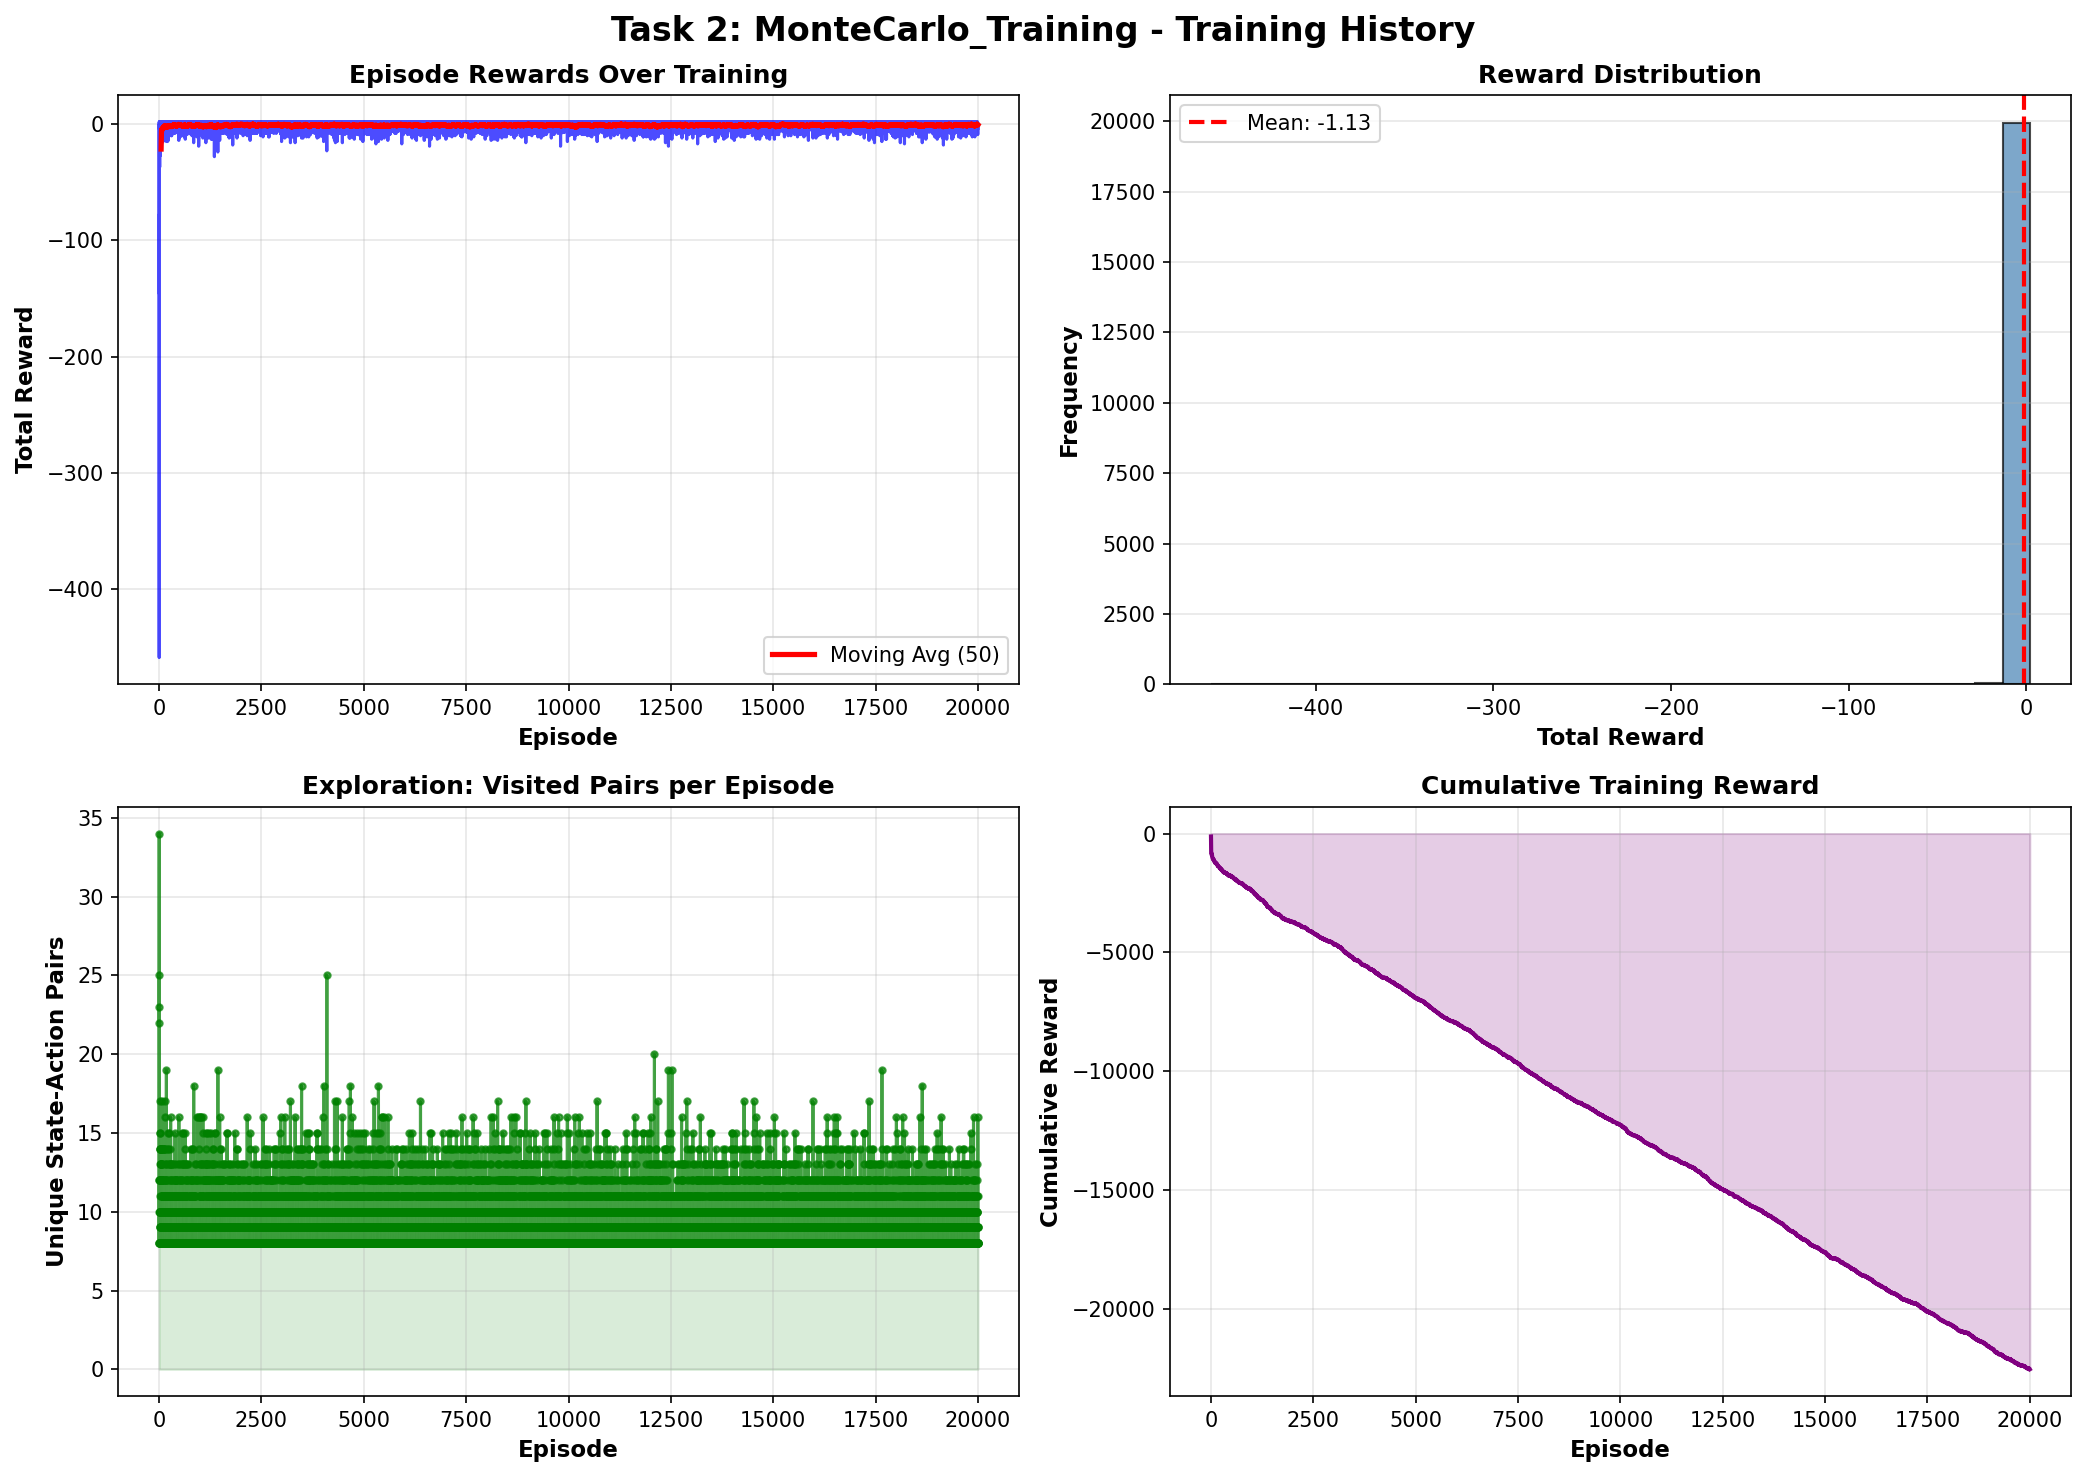
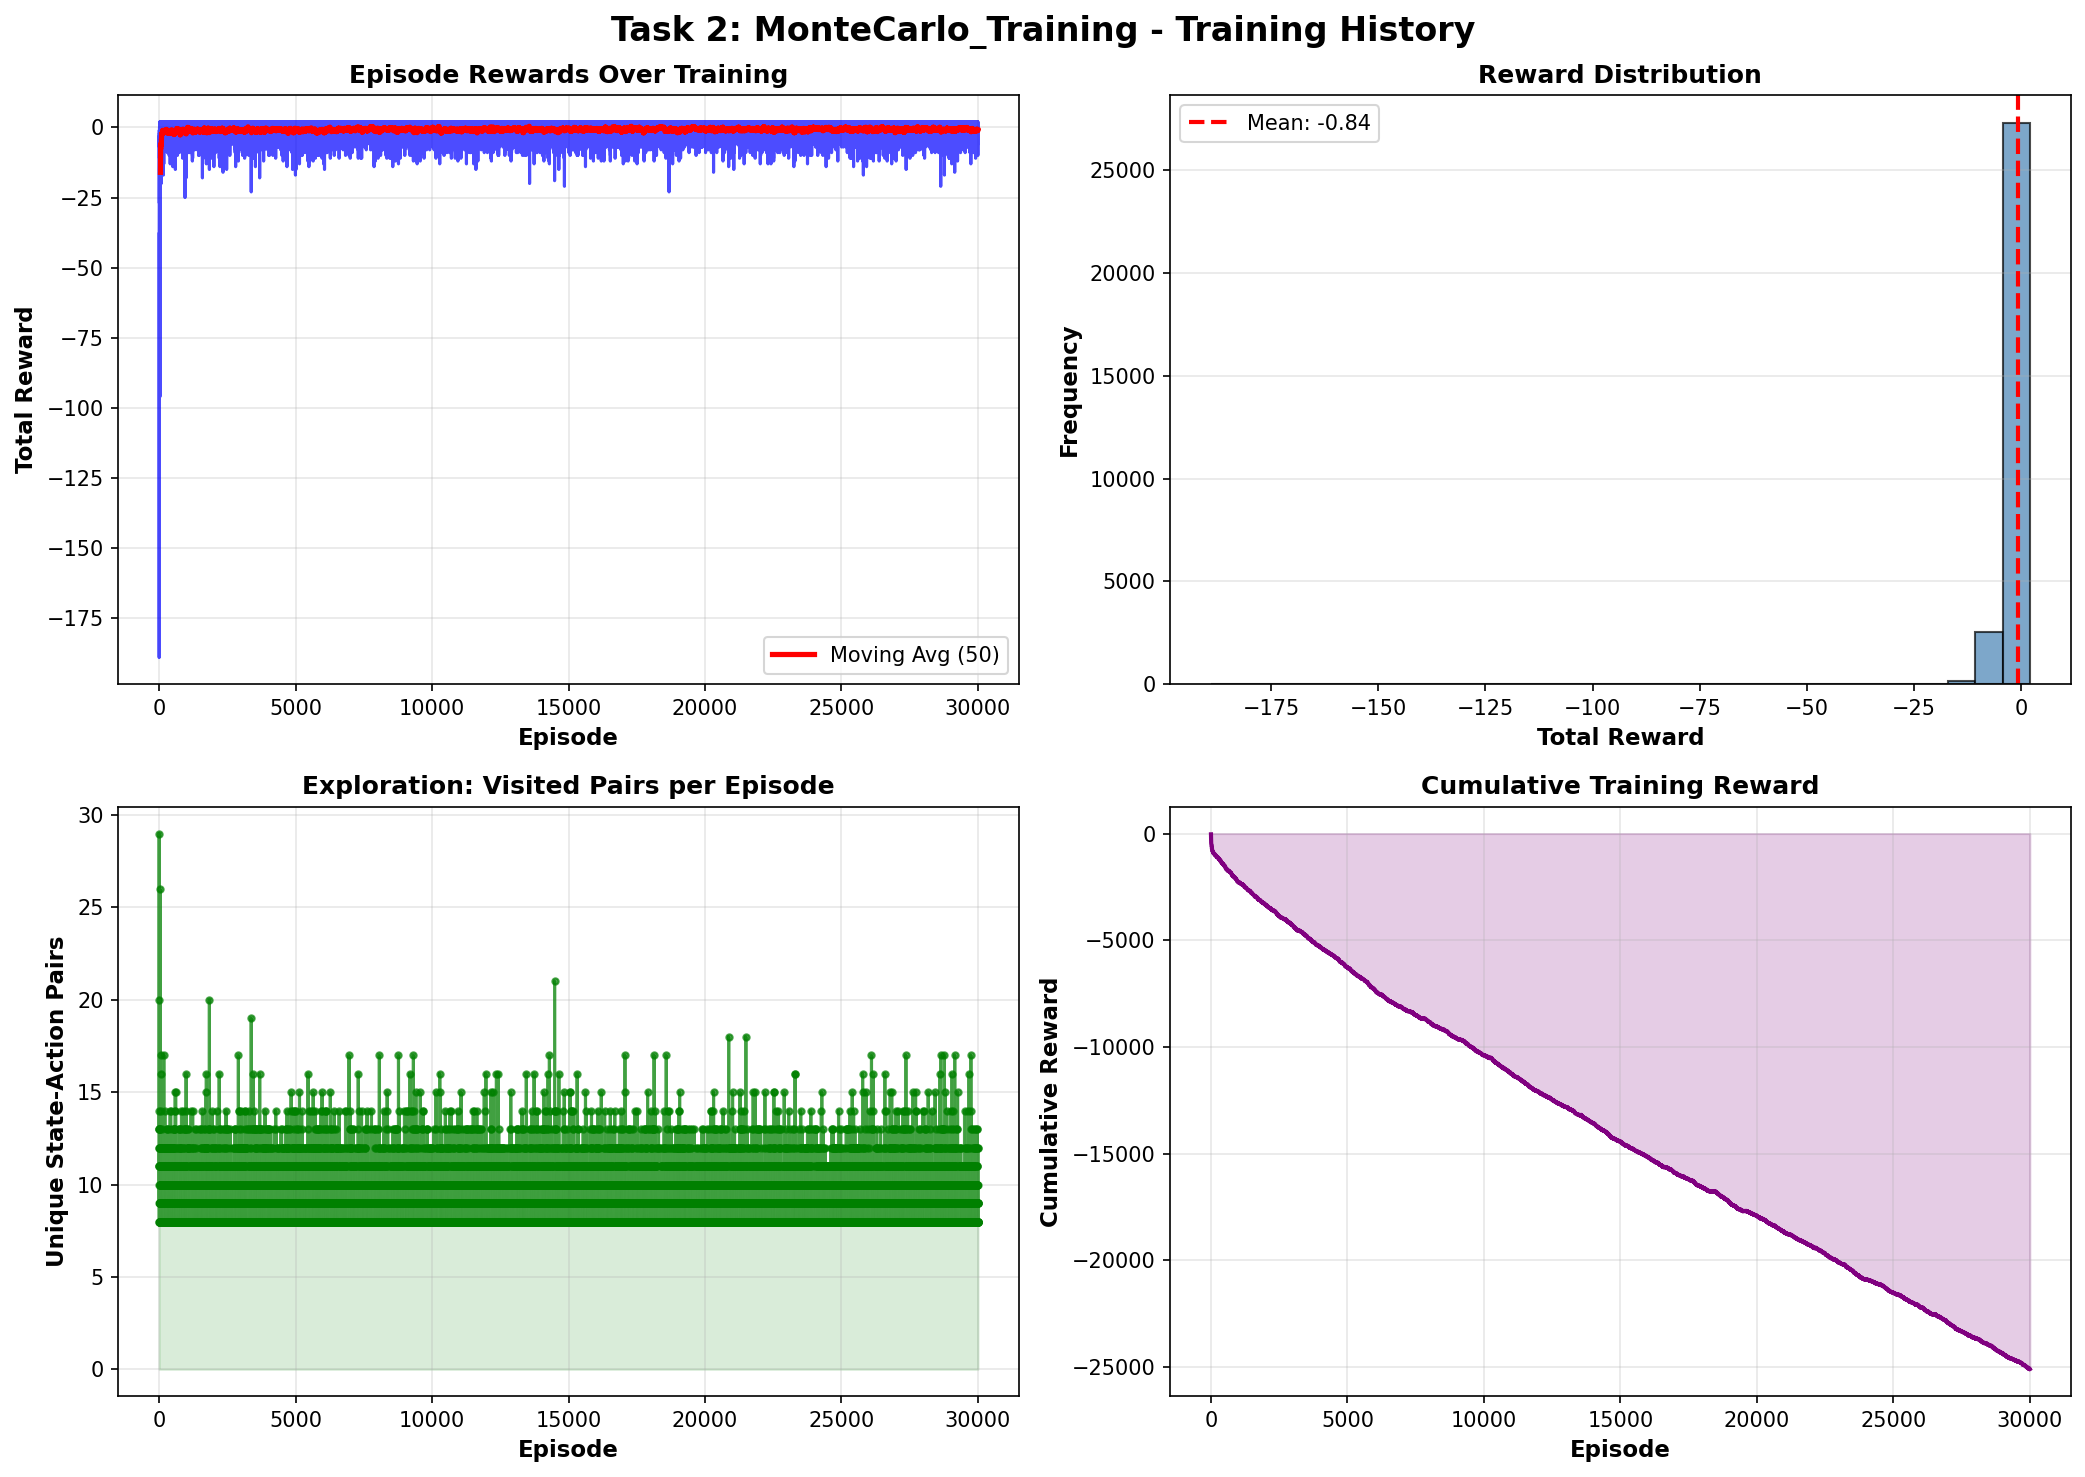
feat(visualization): update Monte Carlo training parameters and policies

diff --git a/Lab1/part2/task2-2/main.py b/Lab1/part2/task2-2/main.py
@@ -204,9 +204,8 @@ def monte_carlo_control(num_episodes=1000, epsilon=0.1):
                 # Update Q-value as average of returns
                 Q[(state, action)] = np.mean(returns[(state, action)])
         
-        # Log training history every 10 episodes
-        if (episode_num + 1) % 10 == 0:
-            avg_reward = np.mean([episode_reward for _ in range(1)])  # Placeholder
+        # Progress update every 500 episodes (plus first and last)
+        if (episode_num + 1) % 500 == 0 or episode_num == 0 or episode_num == num_episodes - 1:
             visited_states = len(visited_pairs)
             print(f"Episode {episode_num + 1}/{num_episodes}: Reward={episode_reward:.2f}, Visited pairs={visited_states}")
         
@@ -296,7 +295,7 @@ def main():
     print("=" * 60 + "\n")
     
     # -------- MONTE CARLO CONTROL --------
-    Q, policy_mc, training_history, q_snapshots = monte_carlo_control(num_episodes=20000, epsilon=0.1)
+    Q, policy_mc, training_history, q_snapshots = monte_carlo_control(num_episodes=30000, epsilon=0.1)
     
     # -------- EXTRACT Q-VALUES --------
     q_state_action, v_state = q_values_to_array(Q)

diff --git a/Lab1/part2/task2-2/visualization/task2_policies.md b/Lab1/part2/task2-2/visualization/task2_policies.md
@@ -12,10 +12,10 @@ Epsilon-greedy exploration with epsilon=0.1.
 | Y\X | 0 | 1 | 2 | 3 | 4 |
 |-----|---|---|---|---|----|
 | 4 | RIGHT | RIGHT | RIGHT | RIGHT | GOAL |
-| 3 | UP | UP | OBS | UP | UP |
-| 2 | UP | RIGHT | RIGHT | RIGHT | UP |
-| 1 | UP | UP | OBS | RIGHT | UP |
-| 0 | UP | UP | RIGHT | RIGHT | UP |
+| 3 | RIGHT | UP | OBS | UP | UP |
+| 2 | UP | RIGHT | RIGHT | UP | UP |
+| 1 | UP | UP | OBS | UP | UP |
+| 0 | RIGHT | RIGHT | RIGHT | UP | UP |
 
 ## Legend
 - `UP` = Move up

diff --git a/Lab1/lab1.md b/Lab1/lab1.md
@@ -1,1 +1,6 @@
 # Lab1 descrption
+
+# part 1 
+todo: add a explaination to A* heuristic
+
+# part 2
